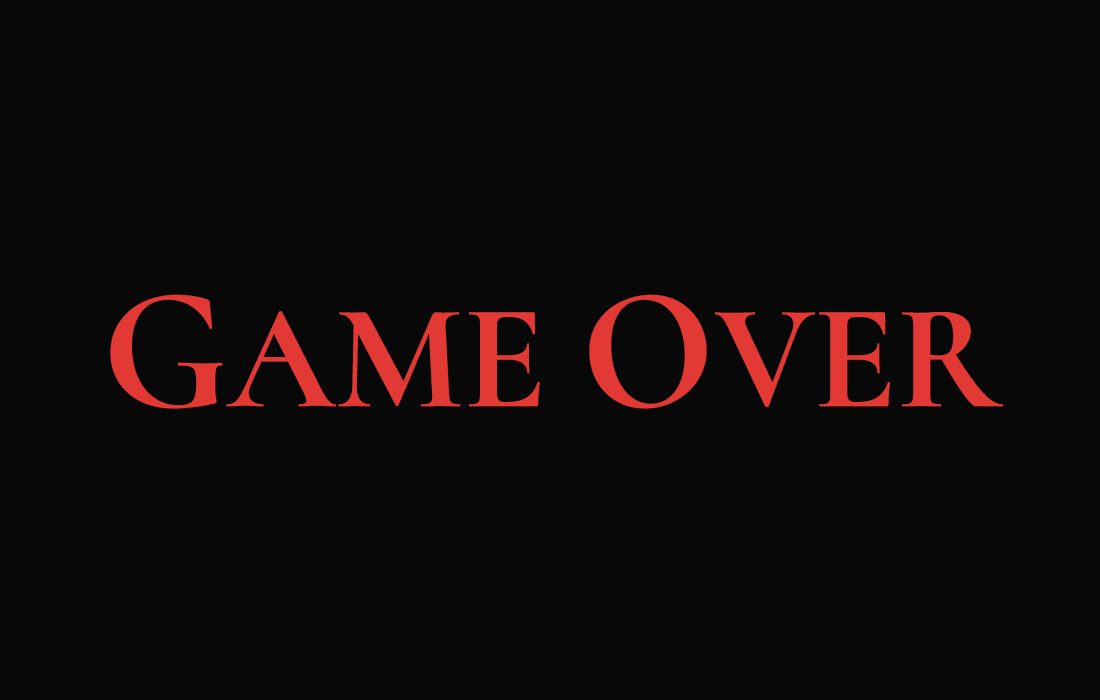
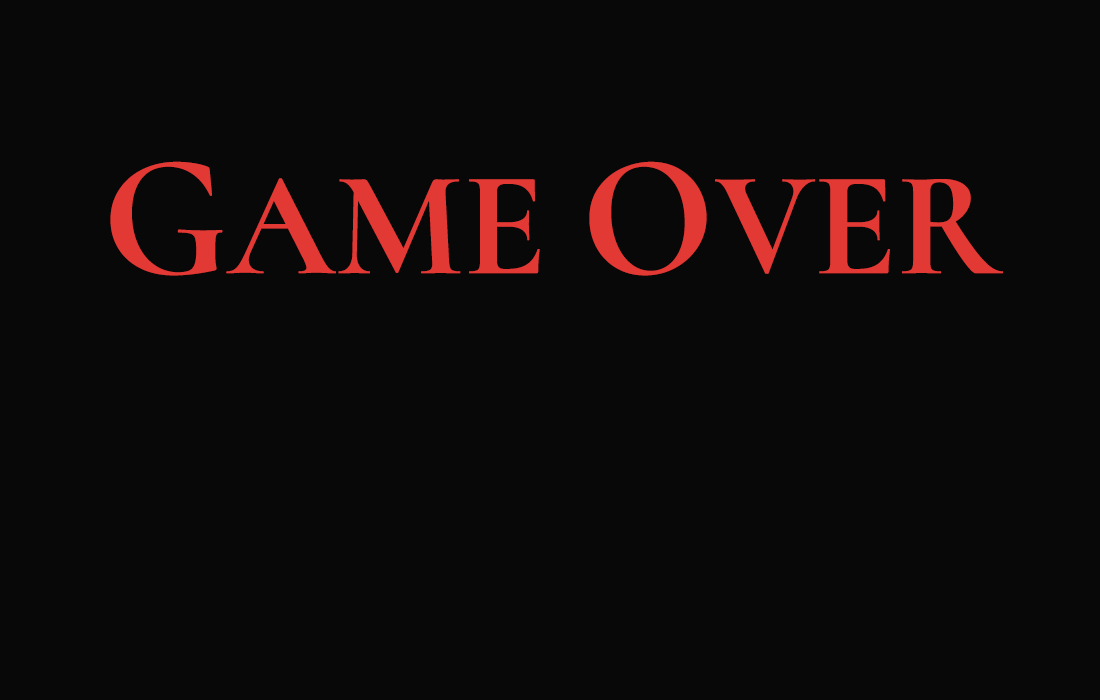
merged main

diff --git a/main.py b/main.py
@@ -6,6 +6,7 @@ from PopUps import *
 import news
 import random
 from splash_screen import *
+from end_screen import EndScreen
 from music import *
 from settings import *
 
@@ -13,63 +14,78 @@ view = View()
 inputs = Inputs()
 music = Music()
 
-observer = Observer()
-visual_data = VisualData(view)
-economy_graph = EconomyGraph(visual_data, observer)
-
-flash_info = FlashInfo(view.screenSize)
-popups = PopupsContainer()
-
-observer.add_observable(popups)
-observer.add_observable(flash_info)
-observer.add_observable(music)
-
-splash_screen = SplashScreen(view.screenSize)
-settings = Settings()
-
-clock = pg.time.Clock()
-
-current_state = "splash_screen"
-
-paused = False
-frames = 0
 while not inputs.quit:
-    inputs.update()
-    # if not economy_graph.has_exploded():
-    if current_state == "splash_screen":
-        e = splash_screen.update(inputs)
-        splash_screen.draw(view)
-        if e: current_state = "game"
+    endScreen = EndScreen(view)
+    observer = Observer()
+    visual_data = VisualData(view)
+    economy_graph = EconomyGraph(visual_data, observer)
 
-    elif current_state == "game":
-        settings.update(inputs, music)
-        paused = settings.activated
+    flash_info = FlashInfo(view.screenSize)
+    popups = PopupsContainer()
 
-        if not paused: flash_info.update(inputs)
-        popups.update(inputs)
+    observer.add_observable(popups)
+    observer.add_observable(flash_info)
+    observer.add_observable(music)
 
-        economy_graph.update_visuals(view, inputs, observer, paused)
-        if frames % 10 == 0 and not paused:
-            economy_graph.update_multigraph()
+    splash_screen = SplashScreen(view.screenSize)
+    settings = Settings()
 
-        if not paused:
-            economy_graph.quick_simulation_update()
+    clock = pg.time.Clock()
 
-        if frames % 50 == 0 and not paused:
-            economy_graph.update_simulation()
+    current_state = "splash_screen"
 
-        if frames % 1000 == 0 and not paused:
-            flash_info.new_msg(random.choice(news.news)[0])
-            observer.notify(EVENT_SOUND, ("news_popup",))
+    paused = False
+    frames = 0
+    while not inputs.quit:
+        inputs.update() 
+        # if not economy_graph.has_exploded():
+        if current_state == "splash_screen":
+            e = splash_screen.update(inputs)
+            splash_screen.draw(view)
+            if e: current_state = "game"
 
-        flash_info.draw(view)
-        popups.draw(view)
-        settings.draw(view)
-    view.flip()
+        elif current_state == "game":
+            settings.update(inputs, music)
+            paused = settings.activated
 
-    clock.tick(50)
-    if not paused:
-        frames += 1
+            if not paused: flash_info.update(inputs)
+            popups.update(inputs)
+
+            economy_graph.update_visuals(view, inputs, observer, paused)
+            if frames % 10 == 0 and not paused:
+                economy_graph.update_multigraph()
+
+            if not paused:
+                economy_graph.quick_simulation_update()
+
+            if frames % 50 == 0 and not paused:
+                economy_graph.update_simulation()
+
+            if frames % 1000 == 0 and not paused:
+                flash_info.new_msg(random.choice(news.news)[0])
+                observer.notify(EVENT_SOUND, ("news_popup",))
+
+            if economy_graph.has_exploded():
+                current_state = "over"
+            
+            flash_info.draw(view)
+            popups.draw(view)
+            settings.draw(view)
         
+        elif current_state == "over":
+            endScreen.update(inputs)
+            endScreen.draw(view)
+            if (endScreen.play_again_bool == True):
+                break
+
+
+        view.flip()
+
+        clock.tick(50)
+        if not paused:
+            frames += 1
+
+    
+
 
 pg.quit()

diff --git a/end_screen.py b/end_screen.py
@@ -1,0 +1,40 @@
+import pygame as pg
+import sys
+from vec import *
+
+class EndScreen():
+    def __init__(self,view):
+        self.import_images()
+        self.screenSize = view.screenSize
+        self.bg = pg.transform.scale(self.bg, (self.screenSize.get[0],self.screenSize.get[1]))
+        self.play_again_bool = False
+        self.quit_pos = self.screenSize / Vec(2,2) - Vec(self.screenSize.get[0]/9, 0) #- Vec(*self.play_image.get_size())
+        self.play_pos = self.screenSize / Vec(2,2) + Vec(self.screenSize.get[0]/9, 0) # + Vec(*self.play_image.get_size())
+        self.top_left_quit_pos = self.quit_pos - Vec(*self.quit_image.get_size()) /2
+        self.top_left_play_pos = self.play_pos - Vec(*self.play_image.get_size()) /2
+
+    def import_images(self):
+        self.bg = pg.image.load(sys.path[0] + "/images/game-over.png")
+        self.quit_image = pg.image.load(sys.path[0] + "/images/quit_icon.png")
+        self.quit_image = pg.transform.scale(self.quit_image, (100,100))
+        self.play_image = pg.image.load(sys.path[0] + "/images/play_image.png")
+        self.play_image = pg.transform.scale(self.play_image, (100,100))
+
+
+
+    def update(self, inputs):
+        # left quit and right restart
+        if (inputs.pressed("mouse_left") and
+                dist(self.quit_pos, inputs.mouse_pos) < max(self.quit_image.get_size()) / 2):
+            inputs.quit = True
+        elif(inputs.pressed("mouse_left") and
+                dist(self.play_pos, inputs.mouse_pos) < max(self.play_image.get_size()) / 2):
+            self.play_again_bool = True
+        else:
+            None
+    
+    def draw(self, view):
+        view.screen.blit(self.bg, (0,0))
+        view.screen.blit(self.quit_image, self.top_left_quit_pos.get)
+        view.screen.blit(self.play_image, self.top_left_play_pos.get)
+        

diff --git a/graph.py b/graph.py
@@ -152,7 +152,7 @@ class EconomyGraph:
         self.multi_curve.draw(view)
 
     def has_exploded(self):
-        return (self.AC._value == 0) or (self.ID._value > 100) or (self.PD._value > 100)
+        return (self.AC._value == 0) or (self.ID._value >= 100) or (self.PD._value > 100)
 
 # def main2():
 #     economy = EconomyGraph()
